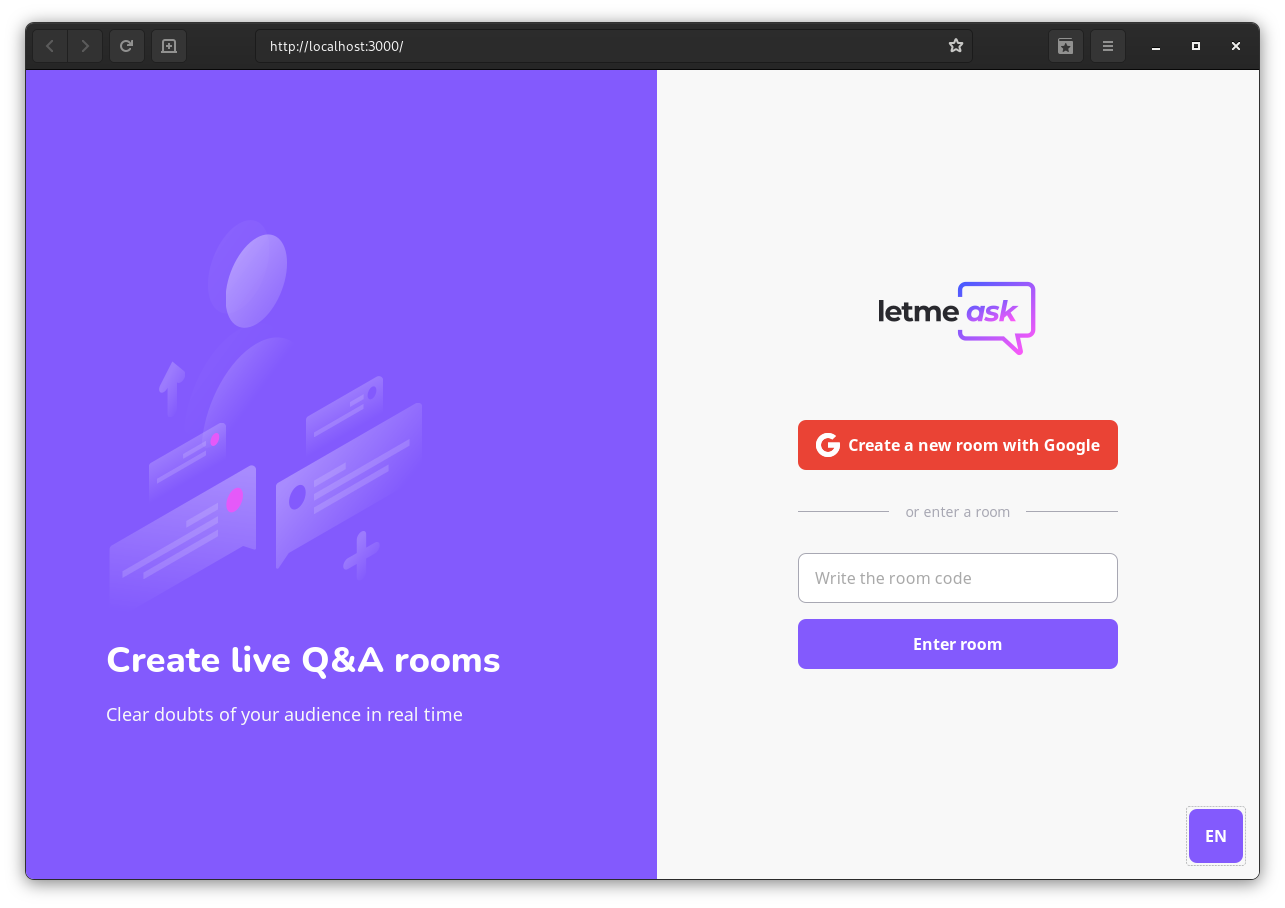
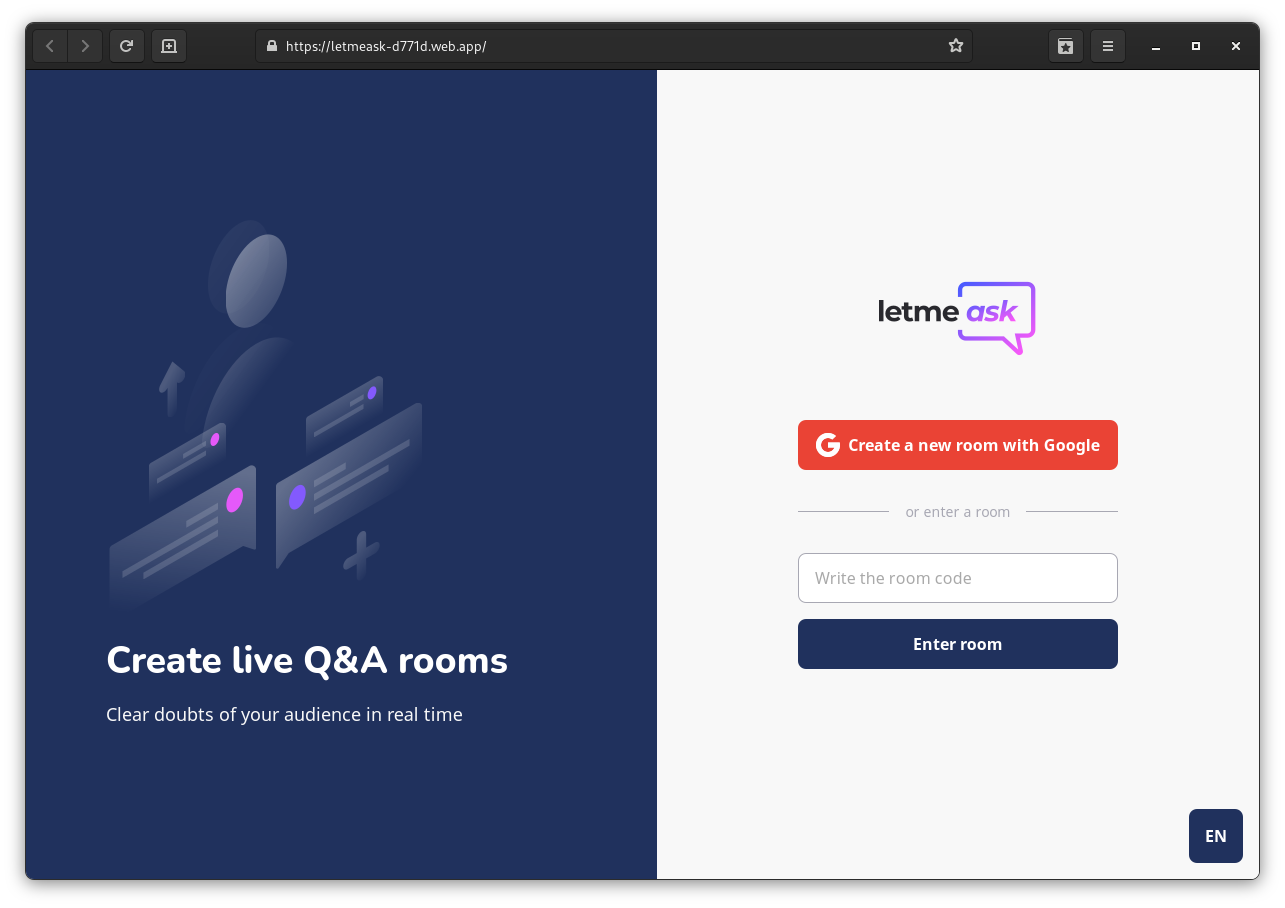
Responsiveness

diff --git a/letmeask/src/styles/auth.scss b/letmeask/src/styles/auth.scss
@@ -17,7 +17,9 @@
     }
 
     strong {
-      font: 700 clamp(10vw, 2vw, 36px) 'Nunito', sans-serif;
+      font-family: 'Nunito', sans-serif;
+      font-size: clamp(3vw, 36px, 10vw);
+      font-weight: bold;
       line-height: 42px;
       margin-top: 16px;
     }

diff --git a/letmeask/src/styles/global.scss b/letmeask/src/styles/global.scss
@@ -1,7 +1,7 @@
 :root {
   --back: #f8f8f8;
   --text: #29292e;
-  --accent-back: #007899;
+  --accent-back: #20315d;
   --highlighted: #f4f0ff;
   --answered: #dbdcdd;
   --input-back: #fefefe;
